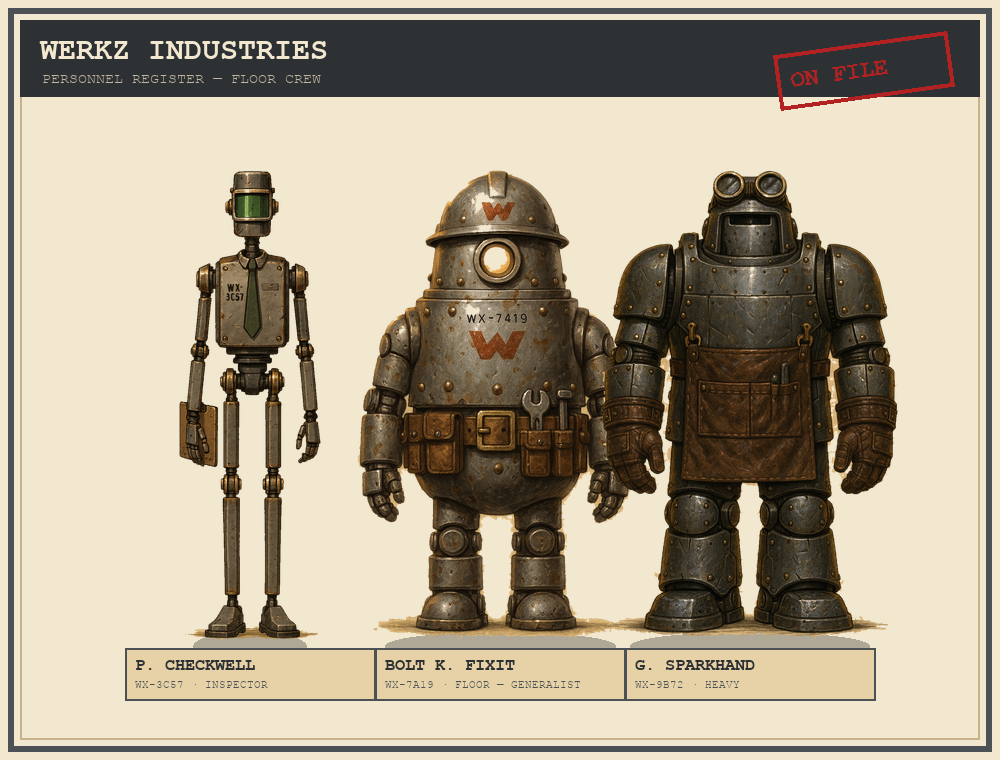
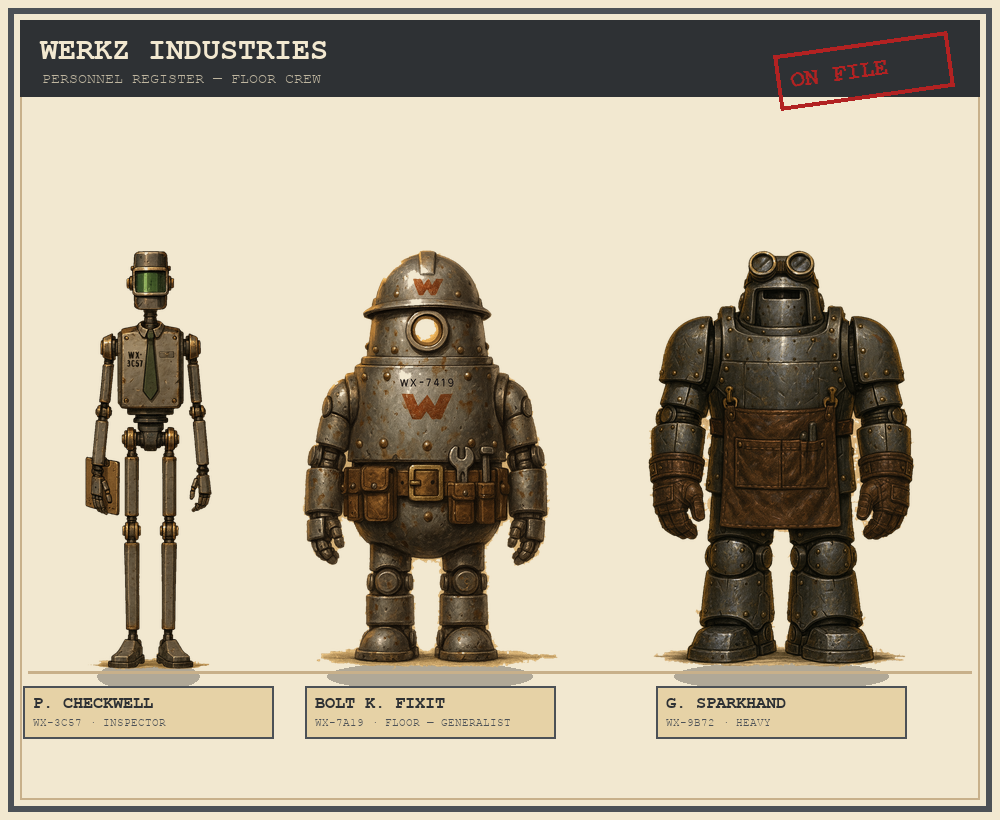
feat(app): bake in crew register + full-width steel beam; alpha in the pipeline (task 36)
Register + beam approved and baked into first-run card 1. Alpha isolation moved
into the pipeline (beam-cut.py, invoked by beam-gen.mjs, so the strip regenerates
transparent — never a manual step that gets overwritten). The gunmetal beam is
near-black, so a flood ate through it; switched to a PER-COLUMN silhouette fill
(fill opaque between the top/bottom metal edge per column) which can't punch an
interior hole or drop a rivet, then the same defringe as the sprite cut kills any
black halo. Verified clean on a checkerboard (rivets + plate edge).

Baked: cleaned beam-less register (approved 34 A spacing) + transparent beam;
card 1 stacks the register (FittedBox-scaled to fit) and the beam full screen
width edge-to-edge (OverflowBox escapes the card padding). first_run golden
regenerated + viewed. 171 tests, analyze clean.

diff --git a/app/lib/src/ui/first_run_screen.dart b/app/lib/src/ui/first_run_screen.dart
@@ -127,24 +127,46 @@ class _CardShell extends StatelessWidget {
   }
 }
 
-// Task 31 D: the personnel-register crew photo (front-facing Bolt / Checkwell /
-// Sparkhand), filling card 1's lower half. Contained so it never overflows.
+// Task 31 D → 35: the personnel-register crew photo (front-facing Bolt /
+// Checkwell / Sparkhand) filling card 1's lower half, with a rendered steel-beam
+// girder a bit below it — FULL SCREEN WIDTH (edge to edge, wider than the
+// register), escaping the card's horizontal padding via OverflowBox.
 class _CrewRegister extends StatelessWidget {
   const _CrewRegister();
   @override
   Widget build(BuildContext context) {
-    return Align(
-      alignment: Alignment.topCenter,
-      child: Padding(
-        padding: const EdgeInsets.only(top: 8),
-        child: Container(
-          decoration: BoxDecoration(
-            border: Border.all(color: Werkz.gunmetal, width: 1.5),
-            boxShadow: const [BoxShadow(color: Colors.black26, blurRadius: 4, offset: Offset(0, 2))],
+    final screenW = MediaQuery.of(context).size.width;
+    return Column(
+      children: [
+        const SizedBox(height: 8),
+        // The register scales to fit the remaining card height (register + beam
+        // together must not overflow) while keeping its aspect.
+        Expanded(
+          child: FittedBox(
+            fit: BoxFit.contain,
+            child: Container(
+              decoration: BoxDecoration(
+                border: Border.all(color: Werkz.gunmetal, width: 1.5),
+                boxShadow: const [BoxShadow(color: Colors.black26, blurRadius: 4, offset: Offset(0, 2))],
+              ),
+              child: Image.asset('assets/images/crew-register.png'),
+            ),
           ),
-          child: Image.asset('assets/images/crew-register.png', fit: BoxFit.contain),
         ),
-      ),
+        const SizedBox(height: 18),
+        // The beam spans the whole screen, edge to edge — OverflowBox lets it
+        // exceed the card's symmetric horizontal padding (task 35). Its bounded
+        // SizedBox (beam aspect ≈ 0.16) keeps a finite height in the Column.
+        SizedBox(
+          height: screenW * 0.16,
+          child: OverflowBox(
+            maxWidth: screenW,
+            maxHeight: screenW * 0.16,
+            child: Image.asset('assets/images/crew-beam.png',
+                width: screenW, height: screenW * 0.16, fit: BoxFit.fill),
+          ),
+        ),
+      ],
     );
   }
 }

diff --git a/assets-pipeline/beam-cut.py b/assets-pipeline/beam-cut.py
@@ -1,0 +1,65 @@
+#!/usr/bin/env python3
+# Task 35: isolate the generated steel beam to ALPHA — part of the beam-gen
+# pipeline (invoked by beam-gen.mjs), NOT a manual step, so the strip regenerates
+# transparent every run. The beam is a bright-ish metal SUBJECT on a near-BLACK
+# background (the inverse of the sprite cut's dark-on-light), so the matte is
+# "everything NOT reachable as near-black from the image edges" — a flood from
+# all four edges removes the surrounding black band while the beam's own interior
+# shadows (enclosed by brighter metal) stay opaque. Then the SAME defringe as the
+# sprite cut (close → erode 1px → feather → RGB decontaminate) pulls the matte
+# INSIDE the dark fringe ring so there is no black halo around the rivets/plate.
+import sys, importlib.util, os
+from PIL import Image, ImageFilter
+from collections import deque
+
+ROOT = os.path.dirname(os.path.abspath(__file__))
+spec = importlib.util.spec_from_file_location('cut', os.path.join(ROOT, 'cut-hires.py'))
+cut = importlib.util.module_from_spec(spec); spec.loader.exec_module(cut)
+
+src = sys.argv[1] if len(sys.argv) > 1 else os.path.join(ROOT, 'sprites', 'beam', 'attempt-1.png')
+out = sys.argv[2] if len(sys.argv) > 2 else os.path.join(ROOT, 'sprites', 'beam', '_beam-strip.png')
+BG_THR = 30  # only the TRUE near-black bg (dark gunmetal steel is brighter)
+
+im = Image.open(src).convert('RGB')
+W, H = im.size
+px = im.load()
+lum = lambda p: 0.299 * p[0] + 0.587 * p[1] + 0.114 * p[2]
+
+# 1) Crop to the beam band: rows whose mean brightness rises clearly above the
+#    darkest (background) row, plus a small pad.
+rowmean = [sum(lum(px[x, y]) for x in range(0, W, 8)) / (W // 8) for y in range(H)]
+base = min(rowmean)
+band = [y for y, m in enumerate(rowmean) if m > base + 12]
+if band:
+    pad = int((max(band) - min(band)) * 0.12)
+    top = max(0, min(band) - pad); bot = min(H, max(band) + pad)
+    im = im.crop((0, top, W, bot)); px = im.load(); W, H = im.size
+
+# 2) PER-COLUMN silhouette fill. The beam metal is genuinely dark (near the bg
+#    luminance), so a flood eats through it. Instead, for each column find the
+#    TOPMOST and BOTTOMMOST metal pixel (lum > EDGE) and fill everything BETWEEN
+#    them opaque — the beam is one solid vertical span per column (plate taller,
+#    rivets domed, interior grooves all enclosed), so this can never punch an
+#    interior hole or leave a rivet floating. Columns with no metal → transparent.
+EDGE = 42  # outer metal edge sits above the near-black bg
+a = Image.new('L', (W, H), 0); ap = a.load()
+for x in range(W):
+    top_y = bot_y = -1
+    for y in range(H):
+        if lum(px[x, y]) > EDGE:
+            if top_y < 0:
+                top_y = y
+            bot_y = y
+    if top_y >= 0:
+        for y in range(top_y, bot_y + 1):
+            ap[x, y] = 255
+
+# 3) SAME defringe as the sprite cut — drops the dark fringe ring + decontaminates
+#    RGB under the matte so scaling never bleeds a black halo.
+res = im.convert('RGBA')
+a = cut.defringe(a, decontam_rgba=res)
+res.putalpha(a)
+bb = a.getbbox()
+res = res.crop(bb) if bb else res
+res.save(out)
+print(f'beam isolated → {os.path.relpath(out, ROOT)} {res.size}')

diff --git a/docs/AKTUELLT.md b/docs/AKTUELLT.md
@@ -72,6 +72,7 @@
 
 ## Log
 
+- **2026-07-20 (task 36, bake in register + beam; alpha in the pipeline)** — Register + beam APPROVED and baked into first-run card 1. ALPHA moved into the pipeline (not manual): `beam-cut.py` (invoked by `beam-gen.mjs`, so the strip regenerates transparent every run) isolates the beam by PER-COLUMN silhouette fill — for each column, fill opaque between the topmost and bottommost metal pixel (lum > 42). This beats a flood (the gunmetal steel is near-black, so a flood ate through the body and left rivets floating); the per-column fill can't punch an interior hole or drop a rivet. Then the SAME defringe as the sprite cut (close→erode 1px→feather + RGB decontaminate) pulls the matte inside the dark fringe so there is NO black halo. Verified on a checkerboard (zoomed rivets + plate edge — clean; 88% opaque, transparent only in the corner notches around the taller brass plate). BAKED: cleaned register (beam-less, approved 34 A spacing) → `crew-register.png`; transparent beam → `crew-beam.png`; card 1 stacks the register (FittedBox-scaled to fit) + the beam FULL SCREEN WIDTH edge-to-edge (OverflowBox escapes the card's 20px padding). first_run golden regenerated + viewed. 171 app tests, analyze clean. SHA — this commit.
 - **2026-07-20 (task 35, beam out of the register + rendered-metal beam element (both held))** — A. BEAM REMOVED from the register: the flat drawn girder inside the frame is gone; the register now ends with the figures standing on a thin floor line, nameplates directly under, nothing inside the frame. The APPROVED 34 A spacing is untouched. B. BEAM as a SEPARATE full-width element: the room art has no cleanly-cropable girder (mostly dark ceiling/pipes + floor), so it was GENERATED via gpt-image (edit endpoint anchored on the Workshop ceiling-beam crop for material match; 1536×1024, 3 candidates) — a horizontal riveted STEEL girder, rendered 3D brushed gunmetal with shadows/wear, DOMED rivets with real light+shadow, and a central aged-BRASS plate engraved "W · WERKZ · FACILITY OPERATIONS" — reads as the same 1955 world as the room art, not a UI widget. No neon. Auto-cropped to a full-width strip (`_beam-strip.png`, 1536×286) that spans EDGE TO EDGE (wider than the register). A card-layout mock (register + gap + full-width beam) was composed to show the intended in-card stacking. BOTH the cleaned register and the beam element are SHOWN and HELD — the app card asset is UNTOUCHED, awaiting Rickard's OK before baking (register replace + `crew-beam.png` add + card stacks them + first_run golden regen). Reproducible: `crew-register.py` (beam removed), `beam-gen.mjs` (raw attempts + ref gitignored, chosen strip kept). SHA — this commit.
 - **2026-07-20 (task 34, register spacing + steel beam (held) + dedup pairing button)** — A. PERSONNEL REGISTER re-COMPOSED (from the existing front cutouts — no new gpt-image round): the wide Bolt/Sparkhand were nearly touching. Spacing is now EDGE-based with inter-figure gaps at 2× the end margins (≈90px vs 45px), so all three read as clearly separate with even air; added a riveted STEEL-BEAM floor girder with a central WERKZ plate anchoring the lineup; nameplates unchanged; 1955 palette, no neon. `crew-register.py` (reproducible) + `_crew-register.png` (candidate). HELD — the app card asset is UNTOUCHED, awaiting Rickard's OK (the bake was missed two rounds; not this time). Candidate image sent. SHA `dec4ca9`. B. DUPLICATED PAIRING BUTTON: the onboarding (pre-pairing) screen had an inline "SCAN THE PAIRING REQUISITION" button in the scroll content AND the pinned "PAIR WORKSHOP" bottom bar (task 26 C) — scrolling to the bottom showed two identical actions. Removed the inline one; the bar (Scaffold.bottomNavigationBar, its own region, not an overlay) stays and cannot hide the last text line — verified by a new bottom-scrolled golden (last credentials line + build stamp fully visible above the single bar). Goldens: `onboarding` (regenerated) + `onboarding_scrolled` (new). Tests updated (pairing_nav, onboard_smoke → pair via the bar; one-action assertion). 171 app tests, analyze clean. SHA — this commit.
 - **2026-07-20 (task 33, codify tuned typing values + front-pose pose-gate cleared)** — A. CODIFIED Rickard's device-tuned typing values (rule 8, his — deliberate): typeHz 1.7→2.0, typeSwing 0.42→0.25, typeReach 1.2→1.25. Updated in SkelParams defaults + the tuned-defaults test; the shoulder-oscillation test threshold lowered to match the smaller tap (0.05→0.01 — still non-zero). Desk L/R HELD at 0.13/0.82/0.12/0.86 (Rickard hasn't landed those yet; they arrive separately). No CLAUDE.md values-list exists (rule 8 is the standing rule, no table); tuned values are recorded here. 170 app tests, analyze clean; type sliders sit below the panel golden's fold so no shipping golden moved. SHA `5dd98c6`. B. FRONT-POSE POSE-GATE — CLEARED, no blocker: the three front-facing personas (generated in 31 D via the gpt-image edit endpoint anchored on the approved pose sheets, `crew-front.mjs`) were re-verified as a proper pose-gate — isolated with the pipeline's `isolate()` and inspected on a checkerboard: CLEAN cuts (no halo, no background bleed, all feet/parts present), so NO hand-cleaning is needed and they AUTO-PICK. The PERSONNEL REGISTER candidate (front-facing Checkwell / Bolt / Sparkhand, 1955 nameplates, manila/steel, ON FILE stamp) is the same one baked into first-run card 1 under Rickard's 31 D authorization ("fixa rakt fram poser sen baka in dom"). Candidate image sent for the record; no new bake this round — awaiting Rickard's confirm or change requests (order/layout/regeneration). The 31 D side-PROFILE composite remains the documented fallback if he ever wants the fronts pulled.
